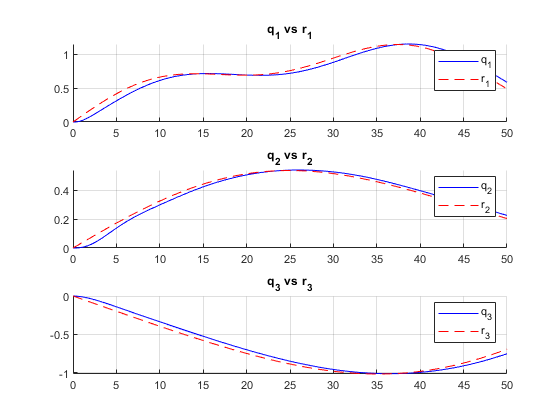
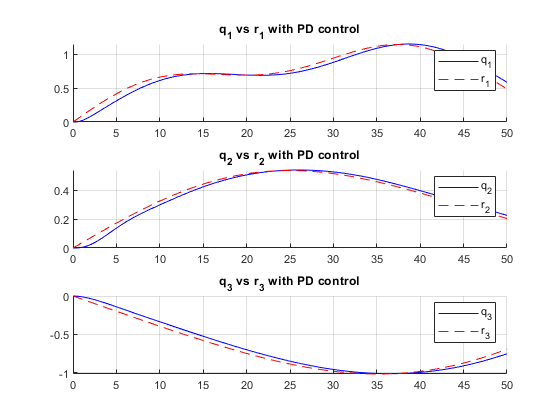
added results task 2

Changed region(s): [[0.3946, 0.3405, 0.6375, 0.4024], [0.3946, 0.65, 0.6375, 0.681], [0.3946, 0.0619, 0.6375, 0.0929]]

diff --git a/oving8/task2_full.m b/oving8/task2_full.m
@@ -1,9 +1,8 @@
 
 % ----- Model definition -----
 
-% This defines expressions using syms for qi and Dqi, stacking the vectors 
-% and using subs(expr, [q1,q2,q3,Dq1,Dq2,Dq3],u) should do the trick.
 run('Mats_and_params_for_Assignment_8')
+close all;
 
 % ----- Initial Conditions -----
 
@@ -12,6 +11,7 @@ Dq0 = zeros(3,1);
 
 % ----- Tuning -----
 
+% PD TUNING
 Kp = [[ 3, 0,  0];...
       [ 0, 6,  0];...
       [ 0, 0,  4]];
@@ -20,9 +20,15 @@ Kd = [[ 4,   0,  0];...
       [ 0,   6,  0];...
       [ 0,   0,  6]];
 
+% INVERSE DYNAMICS TUNING
+w1 = 8; w2 = 0.4; w3 = 10;
+z1 = 1;  z2 = 1;  z3 = 1;
+K0 = diag([ w1^2, w2^2, w3^2]);
+K1 = diag([ 2*w1*z1, 2*w2*z2, 2*w3*z3]);
+
 % ----- Simulation settings -----
 
-controller = 0;
+controller = 0; % 0 for PD, 1 for inv dynamics
 mode = "Accelerator";
 time = 50;
 
@@ -47,7 +53,7 @@ r_ts  = tmp.Values;
 figure;
 for i = 1:3
     subplot(3,1,i);
-    title("q_" + num2str(i) + " vs r_" + num2str(i));
+    title("q_" + num2str(i) + " vs r_" + num2str(i) + " with PD control");
     hold on;
     grid on;
     plot(q_ts.Time, q_ts.Data(:,i),'b');
@@ -56,5 +62,41 @@ for i = 1:3
 end
 
 figure;
-title("Inputs");
+title("Inputs with PD control");
+plot(u_ts);
+
+% ----- Simulation -----
+controller = 1;
+mode = "Accelerator";
+time = "50";
+simout = sim('task2.slx',"SimulationMode", mode, ... 
+                         "StopTime"      , num2str(time));
+
+% ----- Scraping data -----
+
+tmp   = get(simout.logsout, 'q');
+q_ts  = tmp.Values;
+tmp   = get(simout.logsout, 'Dq');
+Dq_ts = tmp.Values;
+tmp   = get(simout.logsout, 'u');
+u_ts  = tmp.Values;
+tmp   = get(simout.logsout, 'r');
+r_ts  = tmp.Values;
+
+% ----- Plotting -----
+
+figure;
+for i = 1:3
+    subplot(3,1,i);
+    title("q_" + num2str(i) + " vs r_" + num2str(i) + ...
+          " with inverse dynamics control");
+    hold on;
+    grid on;
+    plot(q_ts.Time, q_ts.Data(:,i),'b');
+    plot(r_ts.Time, r_ts.Data(:,i),'r--');
+    legend("q_" + num2str(i) , "r_" + num2str(i));
+end
+
+figure;
+title("Inputs with inverse dynamics control");
 plot(u_ts);
